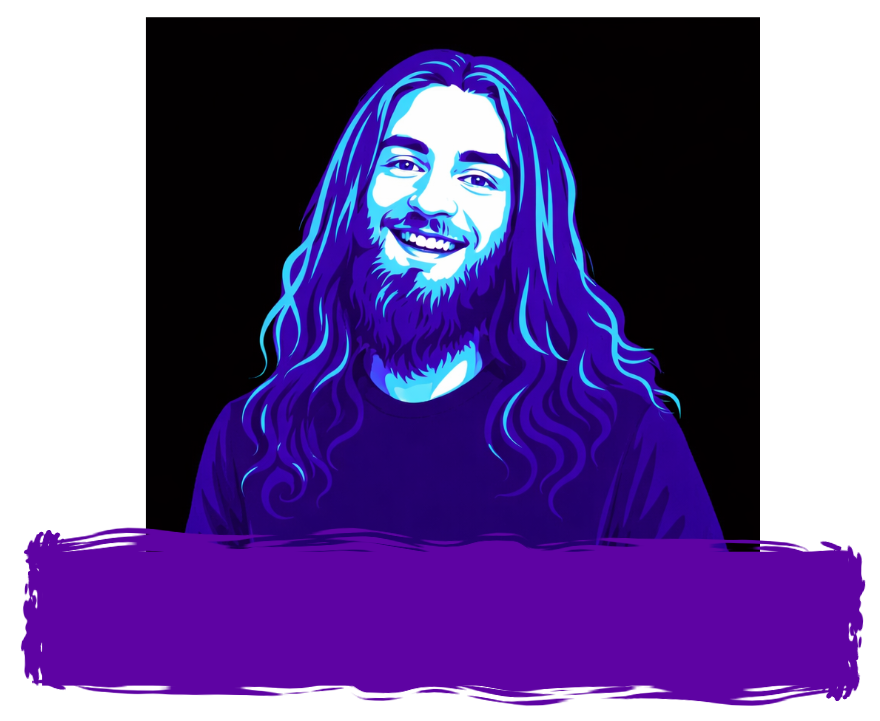
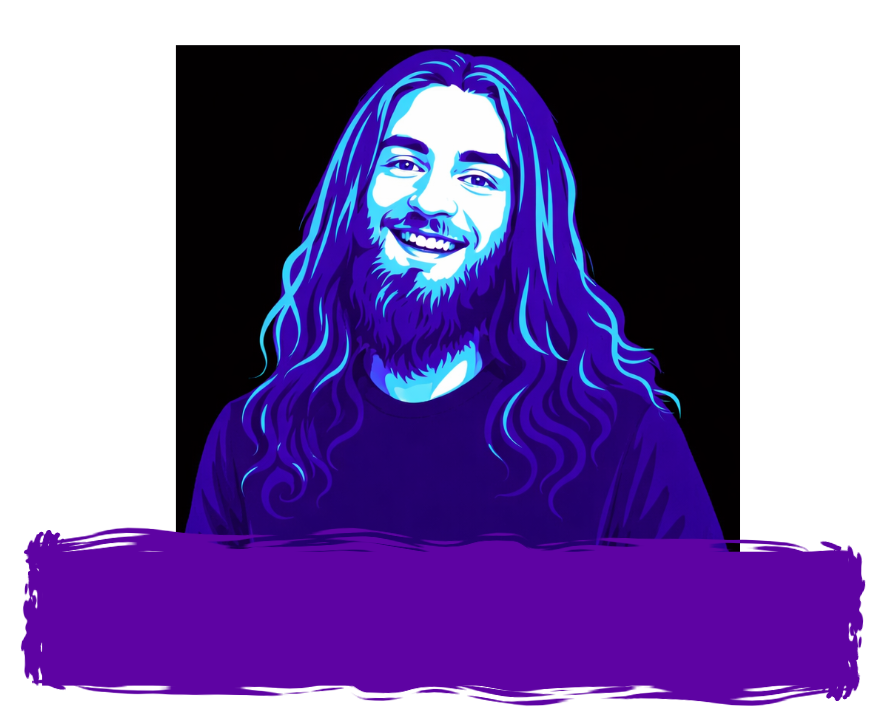
about site with profile borders and start site, imprint and privacy police responsive for mobile

Changed region(s): [[0.1534, 0.0, 0.8898, 0.7628]]

diff --git a/style.css b/style.css
@@ -1067,13 +1067,6 @@ div.test2 {
 	width: 100%;
 }
 
-
-
-
-
-
-
-
 .outer_card{
 	max-width: 500px;
 	height: auto;
@@ -1091,14 +1084,15 @@ div.test2 {
 	width: 100%;
 	height: auto;
 	text-align: center;
-	top: 79%;
+	top: 78%;
 }
 
 .outer_card p{
 	width: 77%;
 	position: absolute;
 	margin-bottom: 0;
-	transform: translate(16%, -30%);
+	top: 88%;
+	left: 12%;
 	border: var(--corp-cyan);
 	border-width: 1px;
 	border-style: solid;
@@ -1167,7 +1161,18 @@ div.test2 {
 	transform: translate(-10%, 200%);
 }
 
-
+.testrahmen{
+	width: 77%;
+	height: 82%;
+	top: 0;
+	position: absolute;
+	left: 50%;
+	transform: translateX(-49%);
+	border-width: 1px;
+	border-style: solid;
+	border-color: var(--corp-cyan);
+	z-index: -5;
+}
 
 
 
@@ -1180,6 +1185,7 @@ div.test2 {
 	justify-content: center;
 	align-items: center;
 	margin-top: 50px;
+	overflow: hidden;
 }
 
 .slogan img{
@@ -1225,6 +1231,17 @@ body.light .slogan h1{
 @media (max-width: 950px) {
 	main section {
 		padding: 50px 30px;
+	}
+	
+	/* ==============================
+       Startseite
+       ============================== */
+	.slogan img {
+		width: auto;
+	}
+	
+	body {
+		overflow-x: hidden;
 	}
 
 	/* ==============================
@@ -1297,9 +1314,9 @@ body.light .slogan h1{
 	.outer_card{
 		margin-bottom: 150px;
 	}
-	.outer_card p {
-		/*transform: translate(16%, -125%);*/
-	}
+	/*.outer_card p {
+		transform: translate(16%, -125%);
+	}*/
 }
 
 /* ==============================
@@ -1376,11 +1393,11 @@ body.light .slogan h1{
 	}
 	
 	.outer_card p {
-		transform: translate(16%, -20%);
+		top: 85%;
 	}
 	
 	.inner_profile_card{
-		top: 78%;
+		top: 77%;
 	}
 }
 
@@ -1397,7 +1414,7 @@ body.light .slogan h1{
 	}*/
 	
 	.inner_profile_card{
-		top: 76%;
+		top: 74%;
 	}
 }
 

diff --git a/privacy_police.html b/privacy_police.html
@@ -80,20 +80,21 @@
 
 		<main>
 			<section id="home">
-				<h1>Datenschutz</h1>
-					<h2>§1</h2>
-						<p>Dies ist der Text für den Paragraphen.</p>
-					<h2>§2</h2>
-						<p>Dies ist der Text für den Paragraphen.</p>
-					<h2>§3</h2>
-						<p>Dies ist der Text für den Paragraphen.</p>
-					<h2>§4</h2>
-						<p>Dies ist der Text für den Paragraphen.</p>
-					<h2>§5</h2>
-						<p>Dies ist der Text für den Paragraphen.</p>
-					<h2>§6</h2>
-						<p>Dies ist der Text für den Paragraphen.</p>
-
+				<div class="section_div">
+					<h1>Datenschutz</h1>
+						<h2>§1</h2>
+							<p>Dies ist der Text für den Paragraphen.</p>
+						<h2>§2</h2>
+							<p>Dies ist der Text für den Paragraphen.</p>
+						<h2>§3</h2>
+							<p>Dies ist der Text für den Paragraphen.</p>
+						<h2>§4</h2>
+							<p>Dies ist der Text für den Paragraphen.</p>
+						<h2>§5</h2>
+							<p>Dies ist der Text für den Paragraphen.</p>
+						<h2>§6</h2>
+							<p>Dies ist der Text für den Paragraphen.</p>
+				</div>
 			</section>
 		</main>
 		

diff --git a/imprint.html b/imprint.html
@@ -80,19 +80,21 @@
 
 		<main>
 			<section id="home">
-				<h1>Impressum</h1>
-					<h2>§1</h2>
-						<p>Dies ist der Text für den Paragraphen.</p>
-					<h2>§2</h2>
-						<p>Dies ist der Text für den Paragraphen.</p>
-					<h2>§3</h2>
-						<p>Dies ist der Text für den Paragraphen.</p>
-					<h2>§4</h2>
-						<p>Dies ist der Text für den Paragraphen.</p>
-					<h2>§5</h2>
-						<p>Dies ist der Text für den Paragraphen.</p>
-					<h2>§6</h2>
-						<p>Dies ist der Text für den Paragraphen.</p>
+				<div class="section_div">
+					<h1>Impressum</h1>
+						<h2>§1</h2>
+							<p>Dies ist der Text für den Paragraphen.</p>
+						<h2>§2</h2>
+							<p>Dies ist der Text für den Paragraphen.</p>
+						<h2>§3</h2>
+							<p>Dies ist der Text für den Paragraphen.</p>
+						<h2>§4</h2>
+							<p>Dies ist der Text für den Paragraphen.</p>
+						<h2>§5</h2>
+							<p>Dies ist der Text für den Paragraphen.</p>
+						<h2>§6</h2>
+							<p>Dies ist der Text für den Paragraphen.</p>
+				</div>
 			</section>
 		</main>
 		

diff --git a/about.html b/about.html
@@ -99,7 +99,7 @@
 								<h3>Aliki Hundt</h3>
 								<h4>Hüter der Tiefen Katakomben</h4>
 							</div>
-									
+							<div class="testrahmen"></div>
 							<p>Aliki ist spezialisiert auf Gameplay-Systeme, Blueprints in Unreal Engine und technische Architektur. Seine Stärke liegt in klaren, skalierbaren Strukturen - vom Prototyp bis zum fertigen Spiel. </p>
 						</div>
 						
@@ -111,7 +111,7 @@
 								<h3>Fabio Savina</h3>
 								<h4>Hüter der Tiefen Katakomben</h4>
 							</div>
-									
+							<div class="testrahmen"></div>
 							<p>Fabio ist spezialisiert auf Gameplay-Systeme, Blueprints in Unreal Engine und technische Architektur. Seine Stärke liegt in klaren, skalierbaren Strukturen - vom Prototyp bis zum fertigen Spiel. </p>
 						</div>
 					</div>